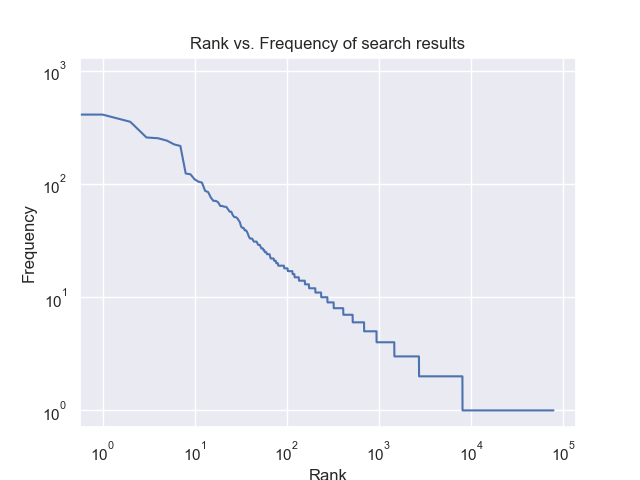
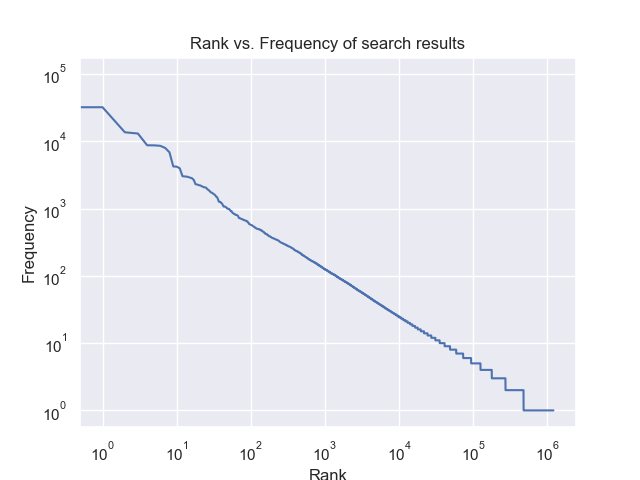
Add graphs

diff --git a/Freq sketch simulation.py b/Freq sketch simulation.py
@@ -32,12 +32,12 @@ sns.set()
 ### Load data
 _df = pd.read_csv('data/AOL-user-ct-collection/user-ct-test-collection-01.txt', sep='\t')
 _df['Query'] = _df['Query'].fillna("")
-df = _df[_df['Query'] != '-'].sample(100000)
+df = _df
 df.head()
 
 # %%
 unique_counts = df['Query'].value_counts()
-unique_counts
+unique_counts[:50]
 
 # %%
 plt.plot(np.arange(len(unique_counts)), unique_counts)
@@ -271,7 +271,7 @@ class SampleWithAdvice:
 
 # %%
 ### Experiments
-deg = 3
+deg = 4
 
 actual_value = np.sum(unique_counts**deg)
 print(f"Actual {deg} Moment:", actual_value)
@@ -305,7 +305,7 @@ def get_ppswor_simulation_results(sketch_size, deg, n_sims=10):
     
     return estimates, space_size
 
-estimates, space_size = get_ppswor_simulation_results(10, deg)
+estimates, space_size = get_ppswor_simulation_results(2**10, deg)
 print("PPSWOR Mean:", np.mean(estimates))
 print("PPSWOR MSE:", np.sqrt(np.mean((estimates - actual_value)**2)))
 print("PPSWOR Size:", space_size)
@@ -455,4 +455,114 @@ fig.supylabel('3rd Moment Estimate Error')
 fig.suptitle('3rd Moment Estimation Error vs. Oracle Error Bound')
 
 plt.savefig('figs/freq_sketch_sim_3rd_moment_ep')
+plt.show()
+
+# %%
+sim_folder = "simulation/results"
+
+nsims = 20
+def read_sim_data(path):
+    with open(f"{sim_folder}/{path}", 'r') as f:
+        lines = [line.rstrip() for line in f]
+        return [float(lines[i]) for i in range(nsims)]
+
+deg = 4
+ep = 0.05
+sample_sizes = [256, 1024, 4096, 16384, 65536]
+
+actual_value = float(sum([val**deg for val in unique_counts]))
+print(actual_value)
+
+ppswor_results = [read_sim_data(f"ppswor_k={k}_deg={deg}.txt") for k in sample_sizes]
+swa_1_results = [read_sim_data(f"swa_k=0-{k}-0_abs_ep={ep}_deg={deg}.txt") for k in sample_sizes]
+swa_2_results = [read_sim_data(f"swa_k=0-{k//2}-{k//2}_abs_ep={ep}_deg={deg}.txt") for k in sample_sizes]
+swa_3_results = [read_sim_data(f"swa_k=100-{k}-0_abs_ep={ep}_deg={deg}.txt") for k in sample_sizes]
+swa_4_results = [read_sim_data(f"swa_k=100-{k//2}-{k//2}_abs_ep={ep}_deg={deg}.txt") for k in sample_sizes]
+
+
+def plot_curve(ax, results, space, label, color):
+    results = np.array(results)
+    error = (results - actual_value) / actual_value
+    mean = np.mean(error, axis=1)
+    # mse = np.mean((results - actual_value)**2, axis=1)
+    lower = np.min(error, axis=1)
+    upper = np.max(error, axis=1)
+    
+    ax.plot(space, np.abs(mean), label=label, color=color)
+    ax.fill_between(space, np.abs(mean), np.maximum(np.abs(lower), np.abs(upper)), color=color, alpha=0.2)
+    ax.legend()
+
+fig, ax = plt.subplots(1, 5, sharey=True, figsize=(12, 5))
+
+plot_curve(ax[0], ppswor_results, sample_sizes, "PPSWOR", 'b')
+
+plot_curve(ax[1], swa_1_results, sample_sizes, "SWA: $k_h = 0$,\n$k_u = 0$", 'b')
+plot_curve(ax[2], swa_2_results, sample_sizes, "SWA: $k_h = 0$,\n$k_u = k_p$", 'r')
+plot_curve(ax[3], swa_3_results, sample_sizes, "SWA: $k_h = 100$,\n$k_u = 0$", 'g')
+plot_curve(ax[4], swa_4_results, sample_sizes, "SWA: $k_h = 100$,\n$k_u = k_p$", 'y')
+
+# ax[0].axhline(actual_value, label="L2 Norm", c='black', linestyle='dashed')
+# ax[1].axhline(actual_value, label="L2 Norm", c='black', linestyle='dashed')
+
+ax[0].set_yscale('log')
+ax[1].set_yscale('log')
+
+fig.supxlabel('Sample size')
+fig.supylabel('4th Moment Absolute Estimation Error')
+fig.suptitle('4th Moment Estimation Error vs. Sample Size')
+
+plt.savefig('figs/freq_sketch_sim_4th_moment_large_sample')
+plt.show()
+
+# %%
+sim_folder = "simulation/results"
+
+nsims = 20
+def read_sim_data(path):
+    with open(f"{sim_folder}/{path}", 'r') as f:
+        lines = [line.rstrip() for line in f]
+        return [float(lines[i]) for i in range(nsims)]
+
+deg = 4
+ep = 0.05
+sample_sizes = [256, 1024, 4096, 16384, 65536]
+
+actual_value = float(sum([val**deg for val in unique_counts]))
+print(actual_value)
+
+swa_rel_1_results = [read_sim_data(f"swa_k=0-{k}-0_ep={ep}_deg={deg}.txt") for k in sample_sizes]
+swa_rel_2_results = [read_sim_data(f"swa_k=0-{k//2}-{k//2}_ep={ep}_deg={deg}.txt") for k in sample_sizes]
+swa_abs_1_results = [read_sim_data(f"swa_k=0-{k}-0_abs_ep={ep}_deg={deg}.txt") for k in sample_sizes]
+swa_abs_2_results = [read_sim_data(f"swa_k=0-{k//2}-{k//2}_abs_ep={ep}_deg={deg}.txt") for k in sample_sizes]
+
+
+def plot_curve(ax, results, space, label, color):
+    results = np.array(results)
+    error = (results - actual_value) / actual_value
+    mean = np.mean(error, axis=1)
+    # mse = np.mean((results - actual_value)**2, axis=1)
+    lower = np.min(error, axis=1)
+    upper = np.max(error, axis=1)
+    
+    ax.plot(space, np.abs(mean), label=label, color=color)
+    ax.fill_between(space, np.abs(mean), np.maximum(np.abs(lower), np.abs(upper)), color=color, alpha=0.2)
+    ax.legend()
+
+fig, ax = plt.subplots(2, 2, sharey=True, figsize=(12, 5))
+
+plot_curve(ax[0][0], swa_rel_1_results, sample_sizes, "SWA Rel: $k_h = 0$,\n$k_u = 0$", 'b')
+plot_curve(ax[0][1], swa_rel_2_results, sample_sizes, "SWA Rel: $k_h = 0$,\n$k_u = k_p$", 'r')
+plot_curve(ax[1][0], swa_abs_1_results, sample_sizes, "SWA Abs: $k_h = 0$,\n$k_u = 0$", 'g')
+plot_curve(ax[1][1], swa_abs_2_results, sample_sizes, "SWA Abs: $k_h = 0$,\n$k_u = k_p$", 'y')
+
+# ax[0].axhline(actual_value, label="L2 Norm", c='black', linestyle='dashed')
+# ax[1].axhline(actual_value, label="L2 Norm", c='black', linestyle='dashed')
+
+ax[0][0].set_yscale('log')
+
+fig.supxlabel('Sample size')
+fig.supylabel('4th Moment Absolute Estimation Error')
+fig.suptitle('4th Moment Estimation Error vs. Sample Size')
+
+plt.savefig('figs/freq_sketch_sim_4th_moment_error_type')
 plt.show()
